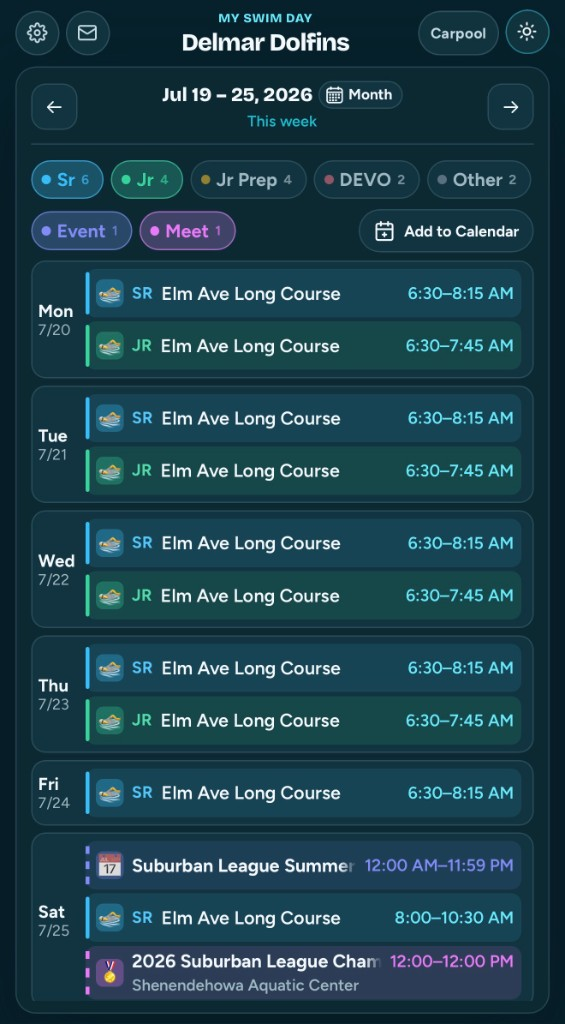
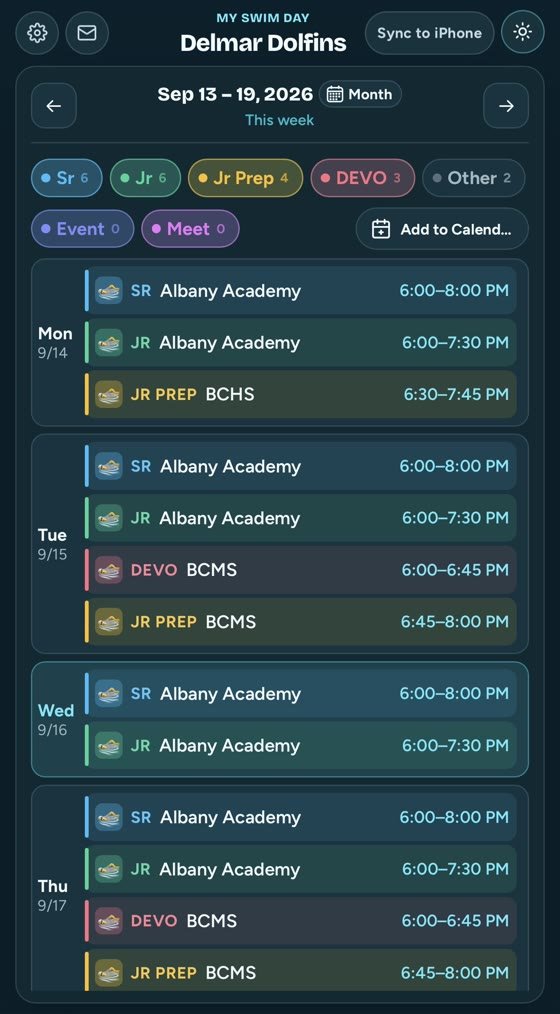
Update homepage hero shots and copy for Sync to iPhone.
Replace the Carpool screenshots, mention live Calendar subscribe on the landing page, and align service, terms, privacy, and onboarding docs.

diff --git a/src/legal/content.ts b/src/legal/content.ts
@@ -27,7 +27,7 @@ export const serviceDocument: LegalDocument = {
       id: 'overview',
       title: 'Overview',
       paragraphs: [
-        `${PRODUCT_NAME} is a companion calendar for swim teams that already use Commit Swimming. It syncs from Commit’s public schedule data and presents a mobile week/month view plus optional email digests. It does not replace Commit.`,
+        `${PRODUCT_NAME} is a companion calendar for swim teams that already use Commit Swimming. It syncs from Commit’s public schedule data and presents a mobile week/month view, Sync to iPhone (a live Calendar subscription), one-off add-to-calendar files, and optional email digests. It does not replace Commit.`,
         `${PRODUCT_NAME} is an independent product and is not affiliated with, endorsed by, or part of Commit Swimming.`,
       ],
     },
@@ -57,7 +57,8 @@ export const serviceDocument: LegalDocument = {
       bullets: [
         `Hosted team calendar at myswimday.com/{shortSlug}`,
         'Sync from Commit’s public schedule API (practices, meets, and team events as configured for your tenant)',
-        'Mobile week and month views, group filters, shareable week links, .ics add-to-calendar, and iPhone Calendar subscription (ICS feed)',
+        'Mobile week and month views, group filters, and shareable week links',
+        'Sync to iPhone: live Calendar subscription (ICS feed) for the groups (and optional meets/events) selected on the team page, plus one-off .ics add-to-calendar',
         'Optional daily or weekly email digests (double opt-in) for parents and coaches',
         'Public read-only schedule API (group and/or meets and events + day → times and locations) for voice assistants, with hourly caps that scale with team size',
         'Initial tenant setup: slug, timezone, groups, and practice/meet parsers for your Commit titles',
@@ -71,6 +72,7 @@ export const serviceDocument: LegalDocument = {
         'Commit Swimming itself, Commit licenses, or Commit admin support',
         'Coaching, meet entry, registration, billing of swimmers, or team CRM',
         'Guaranteed real-time sync (near-live best effort from public Commit data)',
+        'Push updates into iPhone Calendar or other subscribed apps (those apps pull the ICS feed on their own schedule, often hours later)',
         'Custom native apps, SSO, or private/authenticated calendars (unless sold separately later)',
         'Editing or correcting schedule data inside Commit on your behalf',
         'SMS, push notifications, or unlimited email or API volume beyond fair use',
@@ -134,7 +136,7 @@ export const supportDocument: LegalDocument = {
         {
           title: 'P3 — Request',
           paragraphs: [
-            'Examples: new group filter, copy tweak, feature ask, billing receipt.',
+            'Examples: new group filter, copy tweak, Sync to iPhone / calendar subscribe question, feature ask, billing receipt.',
             'First response: within 2 business days. Resolution: best effort / next release.',
           ],
         },
@@ -182,7 +184,7 @@ export const termsDocument: LegalDocument = {
       id: 'service',
       title: 'The service',
       paragraphs: [
-        `We provide the features described in the Service description on a best-effort basis. Features may change. We do not guarantee uninterrupted availability, real-time sync, or that parsers will match every future Commit title format without adjustment.`,
+        `We provide the features described in the Service description on a best-effort basis. Features may change. We do not guarantee uninterrupted availability, real-time sync, or that parsers will match every future Commit title format without adjustment. Calendar subscriptions (Sync to iPhone and equivalent ICS feeds) update only when the calendar app next downloads the feed.`,
         `${PRODUCT_NAME} is not affiliated with Commit Swimming.`,
       ],
     },
@@ -191,6 +193,7 @@ export const termsDocument: LegalDocument = {
       title: 'Your responsibilities',
       bullets: [
         'Maintain accurate schedules in Commit',
+        'Do not put private notes in Commit titles you would not want on the public website or a subscribed calendar',
         'Obtain any consent required to email parents or coaches digests',
         'Keep payment current for paid tenants',
         'Designate an admin contact for support',
@@ -208,7 +211,7 @@ export const termsDocument: LegalDocument = {
       id: 'acceptable-use',
       title: 'Acceptable use',
       paragraphs: [
-        'You may not use the service for spam, unlawful content, unauthorized access, reverse engineering beyond applicable law, or anything that harms other tenants or the infrastructure.',
+        'You may not use the service for spam, unlawful content, unauthorized access, reverse engineering beyond applicable law, or anything that harms other tenants or the infrastructure. Calendar subscription URLs (Sync to iPhone / ICS feeds) expose the same public schedule as the team page; treat them as shareable, not secret.',
       ],
     },
     {
@@ -275,7 +278,7 @@ export const privacyDocument: LegalDocument = {
         'Email addresses and preference settings when someone subscribes to schedule digests (tenant, frequency, group filters, meet/event toggles)',
         'Confirmation and unsubscribe tokens needed to run double opt-in digests',
         'Billing-related information processed by Stripe when you subscribe (we do not store full card numbers on our servers)',
-        'Technical logs typical of hosting (IP, user agent, error logs) from our providers',
+        'Technical logs typical of hosting (IP, user agent, error logs) from our providers, including when a calendar app fetches a Sync to iPhone / ICS subscription URL',
         'Public schedule data read from Commit Swimming’s public APIs for your team',
       ],
     },
@@ -283,7 +286,7 @@ export const privacyDocument: LegalDocument = {
       id: 'use',
       title: 'How we use it',
       bullets: [
-        'Provide calendars, digests, and support',
+        'Provide calendars, email digests, iPhone Calendar feeds, and support',
         'Onboard and bill team subscriptions',
         'Prevent abuse and keep the service reliable',
         'Respond to sales and support requests',

diff --git a/src/HomePage.tsx b/src/HomePage.tsx
@@ -26,7 +26,7 @@ export function HomePage() {
   const demoTenant = tenants[0]
 
   useEffect(() => {
-    document.title = `${PRODUCT_NAME} — Practice & meet calendars for Commit teams`
+    document.title = `${PRODUCT_NAME} — Practice calendars for Commit teams, with Sync to iPhone`
   }, [])
 
   return (
@@ -51,7 +51,7 @@ export function HomePage() {
         <div className="landing-hero__copy">
           <h1 className="landing-hero__brand">{PRODUCT_NAME}</h1>
           <p className="landing-hero__headline">
-            View and share practice schedule in seconds.
+            View the week in seconds — and sync it to iPhone Calendar.
           </p>
           <p className="landing-hero__sub">{PRODUCT_DESCRIPTION}</p>
           <div className="landing-hero__cta">
@@ -93,15 +93,16 @@ export function HomePage() {
           <li className="landing-point">
             <h3 className="landing-point__title">Mobile-first week view</h3>
             <p className="landing-point__text">
-              A phone-optimized calendar parents can check in seconds between
-              carpools.
+              A phone-optimized calendar parents can check in seconds — or tap
+              Sync to iPhone so practices live in the Calendar app.
             </p>
           </li>
           <li className="landing-point">
-            <h3 className="landing-point__title">Filter, share, and email</h3>
+            <h3 className="landing-point__title">Filter, share, and sync</h3>
             <p className="landing-point__text">
-              Group filters, one-tap share links, and daily or weekly email
-              digests keep every swimmer’s week clear.
+              Group filters, one-tap share links, a live iPhone Calendar
+              subscription, and daily or weekly email digests keep every
+              swimmer’s week clear.
             </p>
           </li>
         </ul>
@@ -137,8 +138,8 @@ export function HomePage() {
           <li className="landing-plan">
             <h3 className="landing-plan__title">Per team</h3>
             <p className="landing-plan__text">
-              Hosted calendar link, Commit sync, group filters, share links, and
-              optional email digests for families.
+              Hosted calendar link, Commit sync, group filters, share links,
+              Sync to iPhone, and optional email digests for families.
             </p>
           </li>
           <li className="landing-plan">
@@ -207,8 +208,9 @@ export function HomePage() {
           <li>
             <span className="landing-audience__role">Parent</span>
             <span className="landing-audience__line">
-              Open the week on your phone — or subscribe so a morning digest
-              catches last-night coach changes before practice.
+              Open the week on your phone, tap Sync to iPhone so practices stay
+              in Calendar, or subscribe so a morning digest catches last-night
+              coach changes before practice.
             </span>
           </li>
         </ul>
@@ -295,8 +297,8 @@ function PhonePreview() {
           className={`phone-preview__screenshot${isDark ? '' : ' is-active'}`}
           src={homeScreenshotLight}
           alt=""
-          width={559}
-          height={1024}
+          width={560}
+          height={1014}
           decoding="async"
           aria-hidden={isDark}
         />
@@ -306,8 +308,8 @@ function PhonePreview() {
           }`}
           src={homeScreenshotDark}
           alt=""
-          width={565}
-          height={1024}
+          width={560}
+          height={1014}
           decoding="async"
           aria-hidden={!isDark}
         />

diff --git a/tools/commit-leads/src/draftEmail.ts b/tools/commit-leads/src/draftEmail.ts
@@ -63,6 +63,7 @@ Never imply they already have a MySwimDay page. The only live calendar to link i
   2: `TOUCH 2 — follow-up (~5–7 days after touch 1 if no reply).
 Assume they may have seen touch 1. New angle — not "just bumping". Prefer one of:
   - email digests (daily morning / weekly) so parents catch last-night coach changes before practice
+  - Sync to iPhone so practices live in Calendar without opening the site
   - multi-group filter chaos / meet week / share-one-link for admins
 You may briefly allude to being a swim parent if natural; do not repeat the full Delmar/four-swimmers line.
 Shorter than touch 1. Soft CTA.`,
@@ -75,10 +76,11 @@ function systemForTouch(touch: OutreachTouch): string {
   return `You write short, personalized cold outreach for My Swim Day (MySwimDay).
 
 Product facts (match current homepage — pick 1–2 per email, do not dump all):
-- Headline idea: view and share the practice schedule in seconds.
+- Headline idea: view the week in seconds and sync it to iPhone Calendar.
 - Syncs with Commit Swimming (practices, meets, team events stay in sync). Not a new scheduling system.
 - Mobile week view coaches and families actually open. No login, no app — just open the link.
 - Group filters + one-tap share links.
+- Sync to iPhone: subscribe a live practice calendar in the iPhone Calendar app (not a one-time add).
 - NEW: parents/coaches can subscribe to daily or weekly email digests (morning digest catches overnight Commit changes before practice).
 - Built for Commit teams: coaches update Commit once; after a pilot, admins share one live MySwimDay link; parents open the week or subscribe.
 - Not affiliated with Commit Swimming — do not claim partnership/official status.

diff --git a/tools/commit-leads/src/score.ts b/tools/commit-leads/src/score.ts
@@ -10,7 +10,7 @@ export interface ScoreResult {
 }
 
 const SYSTEM = `You are a B2B sales researcher for My Swim Day (MySwimDay),
-a Commit-synced mobile week view plus daily/weekly email digests for swim teams
+a Commit-synced mobile week view, Sync to iPhone, plus daily/weekly email digests for swim teams
 already using Commit Swimming (no login or app — just a link).
 Return ONLY valid JSON with keys:
 fit_score (0-100), fit_notes (string), buyer_guess (string),
@@ -31,8 +31,8 @@ Evidence they use Commit: ${lead.evidence ?? 'unknown'}
 Confidence: ${lead.confidence ?? 'unknown'}
 Region notes: ${lead.region_notes ?? 'none'}
 
-Product angle: They already run Commit — My Swim Day gives families a mobile week view
-plus optional daily/weekly email digests. No login or app. Not affiliated with Commit.
+Product angle: They already run Commit — My Swim Day gives families a mobile week view,
+Sync to iPhone, plus optional daily/weekly email digests. No login or app. Not affiliated with Commit.
 Proof: live Delmar Dolfins calendar. Offer a free pilot for one team.
 Target buyer priority: team admin/office, head coach, website coordinator, board president.
 

diff --git a/src/product.ts b/src/product.ts
@@ -2,7 +2,7 @@
 export const PRODUCT_NAME = 'My Swim Day'
 export const PRODUCT_SHORT = 'MSD'
 export const PRODUCT_DESCRIPTION =
-  'Syncs with Commit. A mobile week view plus daily and weekly email digests — no login or app required.'
+  'Syncs with Commit. A mobile week view, Sync to iPhone, and daily or weekly email digests — no login or app required.'
 /** Resend Receiving MX is on the `mail` subdomain (not apex). */
 export const PRODUCT_CONTACT_EMAIL = 'sales@mail.myswimday.com'
 /** Keep legacy prefix so existing local settings/theme survive the rebrand. */

diff --git a/tools/commit-leads/src/monthCalendar.ts b/tools/commit-leads/src/monthCalendar.ts
@@ -432,7 +432,7 @@ function pitchAngles(
   }
   if (!angles.length) {
     angles.push(
-      'Team publishes on Commit — My Swim Day can mirror that as a mobile week view plus optional daily/weekly email digests (no login/app).',
+      'Team publishes on Commit — My Swim Day can mirror that as a mobile week view, Sync to iPhone, plus optional daily/weekly email digests (no login/app).',
     )
   }
   return angles.slice(0, 5)

diff --git a/index.html b/index.html
@@ -12,7 +12,7 @@
     />
     <meta
       name="description"
-      content="My Swim Day — mobile-optimized practice and meet calendars for swim teams on Commit."
+      content="My Swim Day — mobile practice calendars for Commit teams, with Sync to iPhone and email digests."
     />
     <link rel="preconnect" href="https://fonts.googleapis.com" />
     <link rel="preconnect" href="https://fonts.gstatic.com" crossorigin />

diff --git a/src/legal/legalMeta.ts b/src/legal/legalMeta.ts
@@ -16,4 +16,4 @@ export function isLegalSlug(value: string): value is LegalSlug {
 }
 
 /** Effective date shown on all policy pages. */
-export const LEGAL_EFFECTIVE_DATE = 'August 29, 2026'
+export const LEGAL_EFFECTIVE_DATE = 'September 16, 2026'

diff --git a/src/HomePage.css b/src/HomePage.css
@@ -127,7 +127,7 @@
 
 .landing-hero__headline {
   margin: 0;
-  max-width: 22ch;
+  max-width: 28ch;
   font-family: var(--font-display);
   font-size: clamp(1.35rem, 2.8vw, 1.85rem);
   font-weight: 700;

diff --git a/docs/paid-tenant-onboarding.md b/docs/paid-tenant-onboarding.md
@@ -25,6 +25,7 @@ Use this before a team moves from pilot to paid production.
 - [ ] Timezone + digest send hours correct
 - [ ] Optional: `publicApiHouseholds` if the club is much smaller/larger than `groups × 35` (public `/api/schedule` hourly cap)
 - [ ] Open `/{shortSlug}` — week/month, groups, meets/events look right vs Commit
+- [ ] Sync to iPhone: pick groups, confirm Calendar subscribe, calendar title is team name only
 - [ ] Optional: confirm a test digest subscriber
 
 ## 4. Payment
@@ -41,6 +42,7 @@ Roster = swimmer count, not digest subscribers. Plans (not in checkout yet): **C
 ## 5. Share production
 
 - [ ] Send production calendar URL: `https://myswimday.com/{shortSlug}`
+- [ ] Point families at **Sync to iPhone** on the team page ([iphone-calendar.md](./iphone-calendar.md))
 - [ ] Explain digest subscribe (double opt-in) and unsubscribe
 - [ ] Share support email `sales@mail.myswimday.com` and expected response targets
 

diff --git a/tools/commit-leads/README.md b/tools/commit-leads/README.md
@@ -69,7 +69,7 @@ Fingerprint is what filters for **Commit** users among USA Swimming clubs.
 
 Draft bodies use simple tags (`<p>`, `<br>`, `<a href>`, `<strong>`, `<em>`). Product URLs are forced in as clickable anchors if the model omits them. Plain-text legacy drafts are converted to HTML when loaded / saved / opened in Mail.
 
-Pitch notes baked into prompts: Delmar is the only live demo (prospects have no MySwimDay calendar yet); cite meets as on their Commit calendar; MySwimDay would sync a mobile week view; peer line from `SENDER_CONTEXT` in touch 1; no invented contacts or kids’ details.
+Pitch notes baked into prompts: Delmar is the only live demo (prospects have no MySwimDay calendar yet); cite meets as on their Commit calendar; MySwimDay would sync a mobile week view and Sync to iPhone; peer line from `SENDER_CONTEXT` in touch 1; no invented contacts or kids’ details.
 
 ## Web UI (local)
 

diff --git a/docs/iphone-calendar.md b/docs/iphone-calendar.md
@@ -8,7 +8,7 @@ Production is `myswimday.com`. Delmar’s short team id is `1`.
 
 1. Open [https://myswimday.com/1](https://myswimday.com/1) on the iPhone (Safari).
 2. Turn on the groups you want (Sr, Jr, Jr Prep, DEVO, …) and Meet / Event if you want those too.
-3. Tap **Sync to iPhone** (top right) → **Add to iPhone Calendar**.
+3. Tap **Sync to iPhone** in the top-right header (same control shown on the homepage) → **Add to iPhone Calendar**.
 4. Confirm the subscribe prompt in Calendar.
 
 The calendar is named **Delmar Dolfins** (team name only). In Calendar → Calendars you can show or hide that one calendar. Event titles still include the group (`Sr Practice`, `Jr Practice`).
